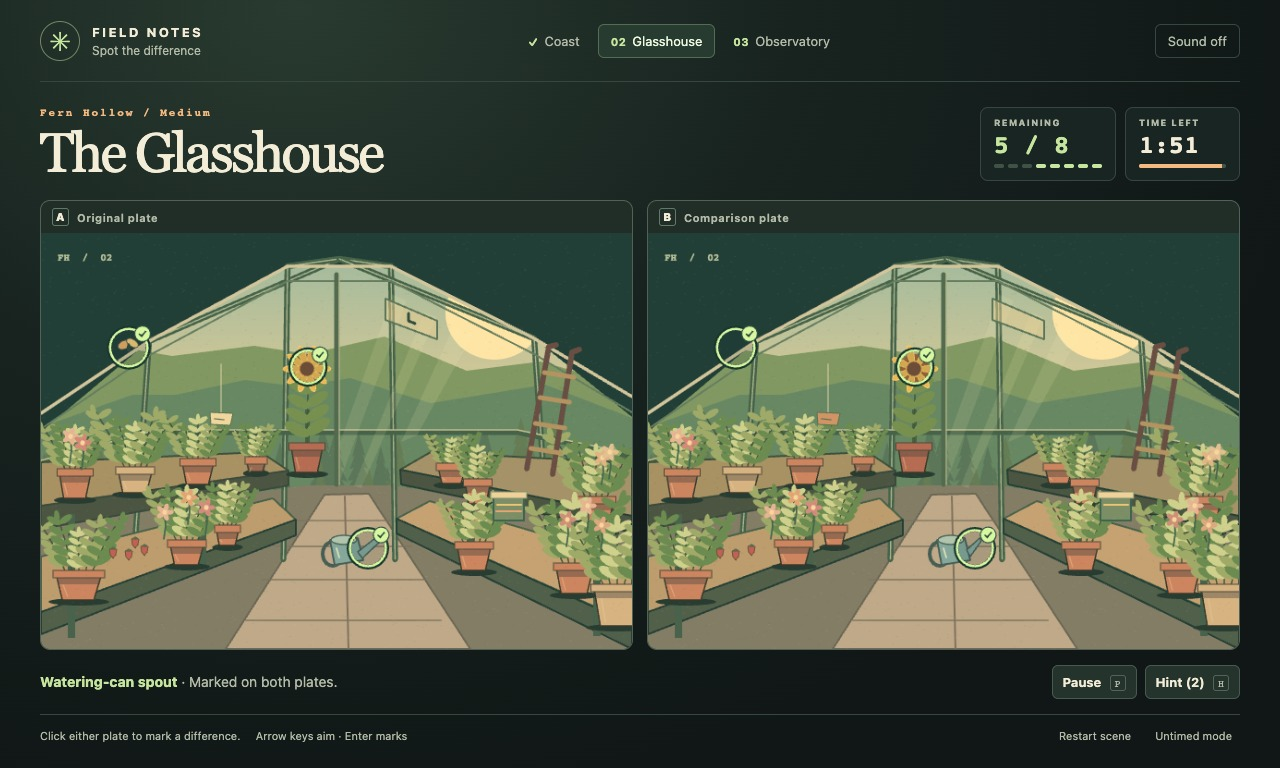
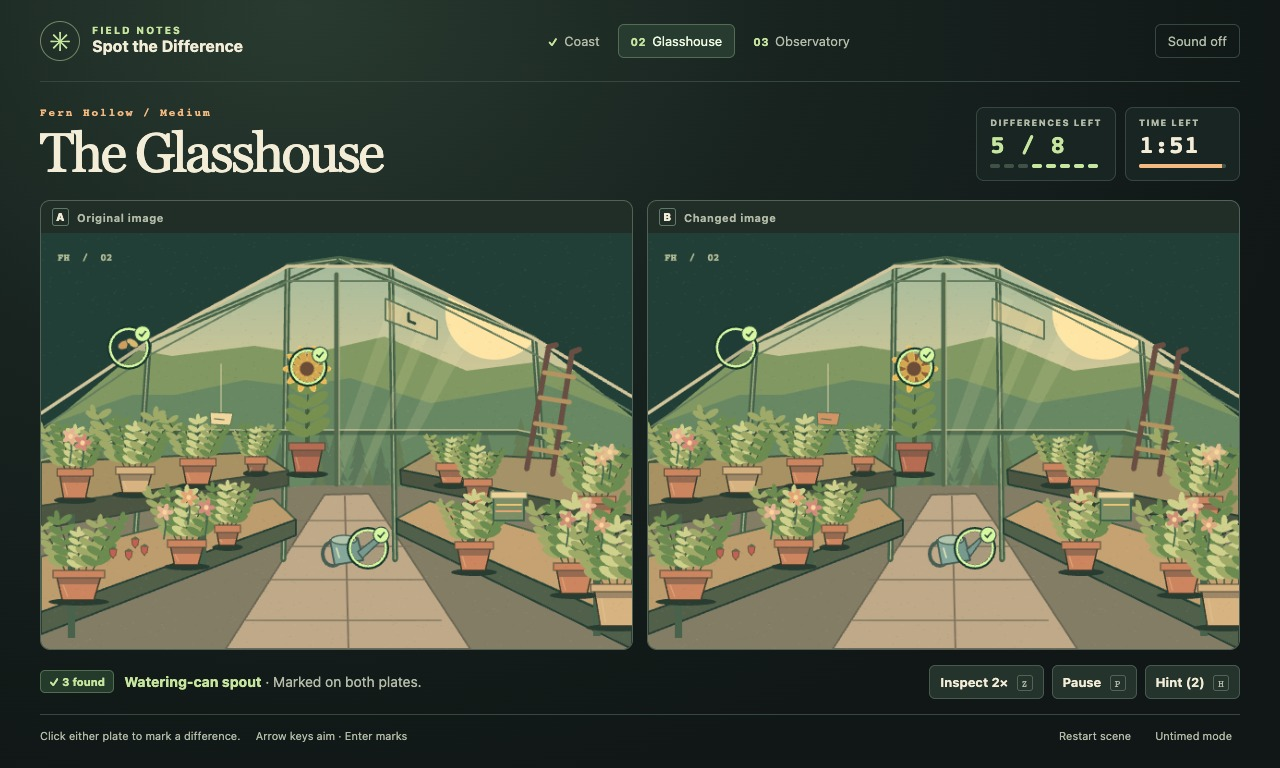
Clarify puzzle progress and add synchronized inspection

diff --git a/game/play.js b/game/play.js
@@ -14,6 +14,7 @@ const remaining = get('remaining');
 const dialogue = get('pause-dialog');
 const hintButton = get('hint');
 const pauseButton = get('pause');
+const inspectButton = get('inspect');
 const advance = get('advance');
 const sound = get('sound');
 const relax = get('relax');
@@ -23,6 +24,9 @@ let sceneIndex = 0;
 let untimed = false;
 let muted = true;
 let pointer = null;
+let inspection = false;
+let inspectionPoint = null;
+const centerPoint = () => ({ x: WIDTH/2, y: HEIGHT/2 });
 let nextFrameTime = performance.now();
 
 function freshCase(scene) {
@@ -54,6 +58,7 @@ function updatePanel() {
   const state = current();
   const count = scene().targets.length;
   remaining.textContent = `${count - state.found.size} / ${count}`;
+  get('found-count').textContent = `✓ ${state.found.size} found`;
   get('ticks').replaceChildren(...Array.from({ length: count }, (_, i) => {
     const tick = document.createElement('span');
     if (i < state.found.size) tick.className = 'done';
@@ -77,6 +82,7 @@ function selectScene(index) {
   sceneIndex = index;
   nextFrameTime = performance.now();
   pointer = null;
+  inspectionPoint = inspection ? centerPoint() : null;
   get('location').textContent = `${scene().region}  /  ${scene().difficulty}`;
   get('title').textContent = scene().title;
   plates.setScene(scene());
@@ -113,6 +119,7 @@ function mark(x, y, side) {
     if (!untimed) state.left = Math.max(0, state.left - 4000);
     announce('No difference there', untimed ? 'Compare the matching area on both plates.' : '−4 seconds');
     playSound('miss');
+    draw(now);
     return;
   }
   if (state.found.has(hit.index)) {
@@ -159,7 +166,25 @@ function hint() {
 
 function pause() {
   if (dialogue.open) dialogue.close();
-  else if (usable()) dialogue.showModal();
+  else if (usable()) {
+    draw(performance.now());
+    if (usable()) dialogue.showModal();
+  }
+}
+
+function toggleInspection() {
+  if (dialogue.open) return;
+  inspection = !inspection;
+  inspectionPoint = inspection ? { ...(pointer ?? centerPoint()) } : null;
+  inspectButton.setAttribute('aria-pressed', String(inspection));
+}
+
+function canvasPoint(canvas, event) {
+  const bounds = canvas.getBoundingClientRect();
+  return {
+    x: (event.clientX-bounds.left)/bounds.width*WIDTH,
+    y: (event.clientY-bounds.top)/bounds.height*HEIGHT,
+  };
 }
 
 function draw(now) {
@@ -187,7 +212,7 @@ function draw(now) {
   timer.parentElement.classList.toggle('urgent', !untimed && seconds < 20 && !state.done);
   get('timer-label').textContent = untimed ? 'UNTIMED' : 'TIME LEFT';
   get('time-fill').style.width = untimed ? '100%' : `${state.left / (scene().seconds*10)}%`;
-  plates.render({ ...state, pointer, targets: scene().targets, now });
+  plates.render({ ...state, pointer, inspectionPoint, targets: scene().targets, now });
 }
 
 function loop(now) {
@@ -207,21 +232,29 @@ scenes.forEach(({ tab }, index) => {
 canvases.forEach((canvas, side) => {
   canvas.addEventListener('click', event => {
     if (!event.detail) return;
-    const bounds = canvas.getBoundingClientRect();
+    const position = canvasPoint(canvas, event);
     pointer = null;
-    mark((event.clientX-bounds.left)/bounds.width*WIDTH, (event.clientY-bounds.top)/bounds.height*HEIGHT, side);
+    if (inspection) inspectionPoint = position;
+    mark(position.x, position.y, side);
+  });
+  canvas.addEventListener('pointermove', event => {
+    if (inspection) {
+      pointer = null;
+      inspectionPoint = canvasPoint(canvas, event);
+    }
   });
   canvas.addEventListener('pointerdown', () => { pointer = null; });
   canvas.addEventListener('keydown', event => {
     const move = { ArrowLeft: [-1, 0], ArrowRight: [1, 0], ArrowUp: [0, -1], ArrowDown: [0, 1] }[event.key];
     if (move || event.key === 'Enter' || event.key === ' ') {
       event.preventDefault();
-      pointer ??= { x: WIDTH/2, y: HEIGHT/2 };
+      pointer ??= inspectionPoint ? { ...inspectionPoint } : centerPoint();
     }
     if (move) {
       const step = event.shiftKey ? 3 : 10;
       pointer.x = Math.max(0, Math.min(WIDTH, pointer.x + move[0]*step));
       pointer.y = Math.max(0, Math.min(HEIGHT, pointer.y + move[1]*step));
+      if (inspection) inspectionPoint = { ...pointer };
     } else if (!event.repeat && (event.key === 'Enter' || event.key === ' ')) {
       mark(pointer.x, pointer.y, side);
     }
@@ -233,6 +266,7 @@ document.addEventListener('keydown', event => {
   if (event.repeat || event.ctrlKey || event.metaKey || event.altKey) return;
   if (event.key.toLowerCase() === 'h') hint();
   if (event.key.toLowerCase() === 'p') pause();
+  if (event.key.toLowerCase() === 'z') toggleInspection();
 });
 document.addEventListener('visibilitychange', () => {
   if (document.hidden && current().active && usable()) pause();
@@ -240,6 +274,7 @@ document.addEventListener('visibilitychange', () => {
 
 hintButton.addEventListener('click', hint);
 pauseButton.addEventListener('click', pause);
+inspectButton.addEventListener('click', toggleInspection);
 const restartScene = () => {
   cases[sceneIndex] = freshCase(scene());
   selectScene(sceneIndex);

diff --git a/game/index.html b/game/index.html
@@ -11,7 +11,7 @@
 <body>
   <div class="sheet">
     <header class="masthead">
-      <div class="identity"><span class="monogram" aria-hidden="true">✳</span><div><b>FIELD NOTES</b><span>Spot the difference</span></div></div>
+      <div class="identity"><span class="monogram" aria-hidden="true">✳</span><div><span>FIELD NOTES</span><b>Spot the Difference</b></div></div>
       <div class="station-tabs" id="stations" aria-label="Field stations"></div>
       <button type="button" class="sound" id="sound" aria-pressed="false">Sound off</button>
     </header>
@@ -20,17 +20,18 @@
         <div class="introduction">
           <div><p class="eyebrow" id="location"></p><h1 id="title"></h1></div>
           <div class="instruments">
-            <div class="readout"><span>REMAINING</span><strong id="remaining"></strong><div id="ticks" aria-hidden="true"></div></div>
+            <div class="readout" aria-label="Differences remaining"><span>DIFFERENCES LEFT</span><strong id="remaining"></strong><div id="ticks" aria-hidden="true"></div></div>
             <div class="readout clock"><span id="timer-label">TIME LEFT</span><strong id="timer"></strong><div class="track"><i id="time-fill"></i></div></div>
           </div>
         </div>
         <div class="plates">
-          <figure><figcaption><b>A</b> Original plate</figcaption><canvas width="640" height="450" id="plate-a" tabindex="0" aria-label="Original illustration. Use arrow keys to aim and Enter or Space to mark."></canvas></figure>
-          <figure><figcaption><b>B</b> Comparison plate</figcaption><canvas width="640" height="450" id="plate-b" tabindex="0" aria-label="Comparison illustration. Use arrow keys to aim and Enter or Space to mark."></canvas></figure>
+          <figure><figcaption><b>A</b> Original image</figcaption><canvas width="640" height="450" id="plate-a" tabindex="0" aria-label="Original illustration. Use arrow keys to aim and Enter or Space to mark."></canvas></figure>
+          <figure><figcaption><b>B</b> Changed image</figcaption><canvas width="640" height="450" id="plate-b" tabindex="0" aria-label="Comparison illustration. Use arrow keys to aim and Enter or Space to mark."></canvas></figure>
         </div>
         <div class="desk">
-          <div class="feedback" id="feedback" role="status"></div>
+          <div class="notes"><span class="found-count" id="found-count"></span><div class="feedback" id="feedback" role="status"></div></div>
           <div class="actions">
+            <button type="button" id="inspect" aria-pressed="false" title="Magnify the same point in both images">Inspect 2× <kbd>Z</kbd></button>
             <button type="button" id="pause">Pause <kbd>P</kbd></button>
             <button type="button" id="hint">Hint <kbd>H</kbd></button>
             <button type="button" id="advance" class="primary" hidden>Next station <span aria-hidden="true">→</span></button>

diff --git a/game/style.css b/game/style.css
@@ -26,8 +26,8 @@ button:disabled { opacity: .48; cursor: default; }
   gap: 16px; border-bottom: 1px solid var(--line);
 }
 .identity { display: flex; align-items: center; gap: 12px; flex-shrink: 0; }
-.identity b { display: block; letter-spacing: .18em; font-size: 13px; }
-.identity div span { color: var(--muted); font-size: 12px; }
+.identity b { display: block; font-size: 16px; line-height: 1.3; }
+.identity div span { display: block; color: var(--mint); font-size: 10px; letter-spacing: .20em; font-weight: 750; }
 .monogram {
   width: 40px; height: 40px; display: grid; place-items: center; font-size: 27px;
   border: 1px solid #748764; border-radius: 50%; color: var(--mint);
@@ -72,6 +72,11 @@ figcaption b { border: 1px solid #60796b; color: var(--ink); border-radius: 3px;
 canvas { display: block; width: 100%; height: auto; aspect-ratio: 64/45; cursor: crosshair; touch-action: manipulation; }
 canvas:focus-visible { position: relative; outline-offset: -4px; }
 .desk { min-height: 64px; display: flex; justify-content: space-between; align-items: center; gap: 12px; }
+.notes { display: flex; align-items: center; gap: 10px; }
+.found-count {
+  flex-shrink: 0; padding: 4px 8px; border-radius: 5px; border: 1px solid #536d52;
+  font-size: 11px; font-weight: 750; color: var(--mint); background: #243b2c;
+}
 .feedback { font-size: 14px; color: var(--muted); }
 .feedback strong { color: var(--mint); font-weight: 720; }
 .feedback.warning strong { color: var(--amber); }
@@ -81,6 +86,7 @@ canvas:focus-visible { position: relative; outline-offset: -4px; }
   border-radius: 6px; font-size: 13px; font-weight: 650;
 }
 .actions button:hover, dialog button:hover { filter: brightness(1.15); }
+.actions button[aria-pressed="true"] { box-shadow: inset 0 0 0 1px var(--mint); color: var(--mint); }
 .actions .primary, dialog .primary { color: #1a261b; background: var(--mint); border-color: var(--mint); }
 kbd {
   border: 1px solid #536358; border-radius: 3px; margin-left: 5px; padding: 1px 4px;
@@ -108,5 +114,6 @@ dialog::backdrop { backdrop-filter: blur(18px); background: #0e1714ec; }
   .readout { min-width: 100px; }
   .plates { gap: 6px; }
   .desk { flex-wrap: wrap; padding: 10px 0; }
+  .actions { flex-wrap: wrap; }
   .keyboard { display: none; }
 }

diff --git a/game/plates.js b/game/plates.js
@@ -11,13 +11,34 @@ function makeArt(scene, version) {
   return art;
 }
 
+function renderInspection(context, original, point) {
+  const { x, y } = point;
+  const width = 144, margin = 16, sample = width / 2;
+  const left = x <= WIDTH/2 ? WIDTH-width-margin : margin;
+  const top = y <= HEIGHT/2 ? HEIGHT-width-margin : margin;
+  const ink = painter(context);
+  ink.oval(x, y, 13, 13, null, '#162b25', 4);
+  ink.oval(x, y, 13, 13, null, '#ffda9d', 2);
+  ink.box(left+4, top+5, width+2, width+2, '#0e2117a0');
+  ink.box(left, top, width, width, '#26332e');
+  context.drawImage(original, x-sample/2, y-sample/2, sample, sample, left, top, width, width);
+  context.strokeStyle = '#f8d799';
+  context.lineWidth = 2;
+  context.strokeRect(left, top, width, width);
+  ink.box(left+5, top+5, 33, 21, '#152922', '#e5c183');
+  ink.label('2×', left+13, top+20, 14, '#ffdf9f', 'monospace');
+  const middleX = left+width/2, middleY = top+width/2;
+  ink.oval(middleX, middleY, 5, 5, null, '#14291f', 3);
+  ink.oval(middleX, middleY, 5, 5, null, '#ffda9d', 1.2);
+}
+
 export function createPlates(canvases) {
   const layers = canvases.map(element => ({ element, context: element.getContext('2d') }));
   let art = [];
   function setScene(scene) {
     art = [makeArt(scene, false), makeArt(scene, true)];
   }
-  function render({ found, targets, pointer, hint, miss, now }) {
+  function render({ found, targets, pointer, inspectionPoint, hint, miss, now }) {
     layers.forEach(({ element, context }, index) => {
       context.drawImage(art[index], 0, 0);
       const ink = painter(context);
@@ -47,7 +68,8 @@ export function createPlates(canvases) {
         ink.beam([[x-4,y-4],[x+4,y+4]], '#ffaf92', 2);
         ink.beam([[x+4,y-4],[x-4,y+4]], '#ffaf92', 2);
       }
-      if (pointer && document.activeElement === element) {
+      if (inspectionPoint) renderInspection(context, art[index], inspectionPoint);
+      else if (pointer && document.activeElement === element) {
         const { x, y } = pointer;
         ink.oval(x, y, 10, 10, null, '#1b332e', 4);
         ink.oval(x, y, 10, 10, null, '#fff9e1', 1.6);

diff --git a/README.md b/README.md
@@ -21,6 +21,8 @@ Open http://localhost:8080. The game is self-contained and requires no downloads
 - Click either plate to mark a difference. Both plates show the mark.
 - Tab to a plate, use the arrows to aim, and press Enter or Space to mark.
   Hold Shift for finer aim.
+- Z toggles the synchronized 2× inspection window. Aim with the pointer or
+  arrows to see the same detail in both plates.
 - H uses one of your two hints per station. P pauses. Timed mode adds a
   four-second penalty for misses and a six-second penalty for hints.
 
